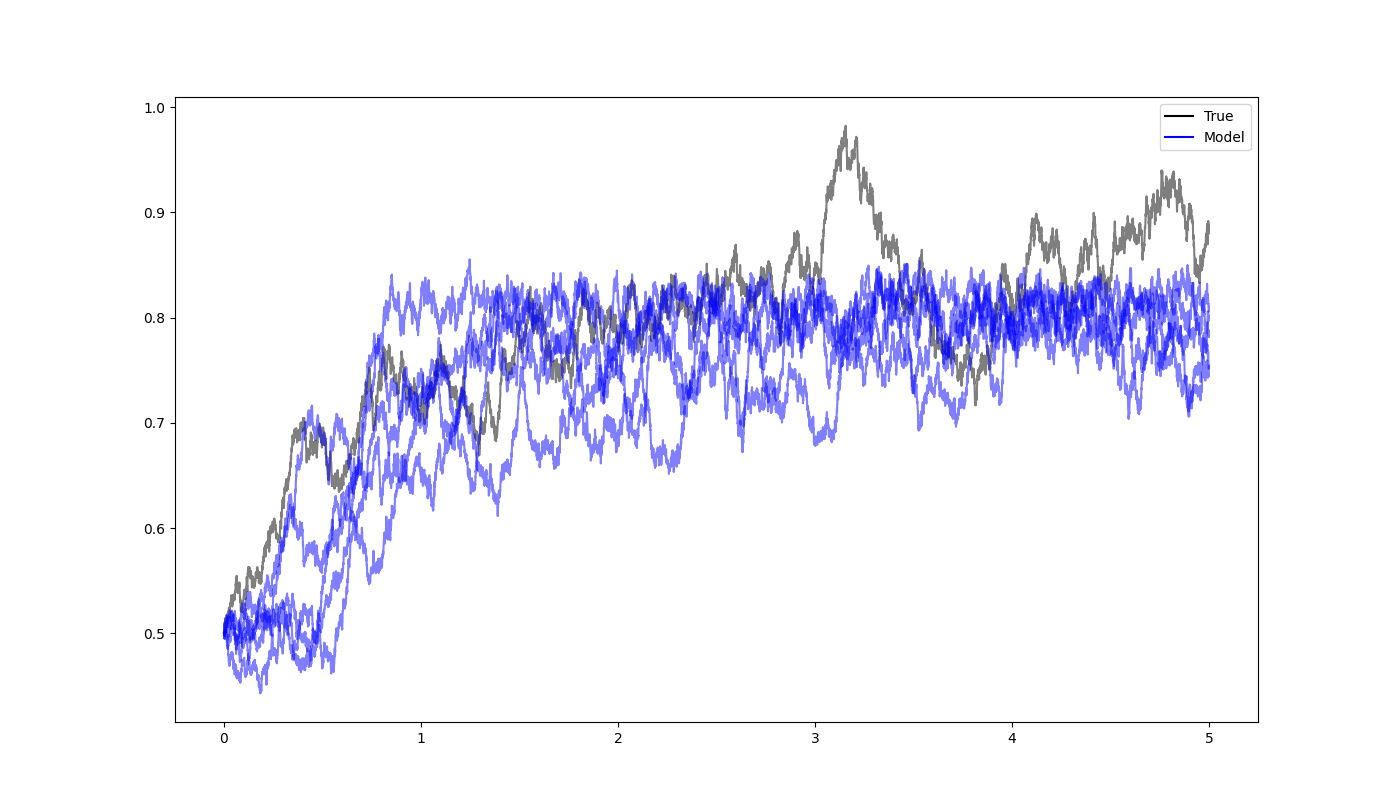
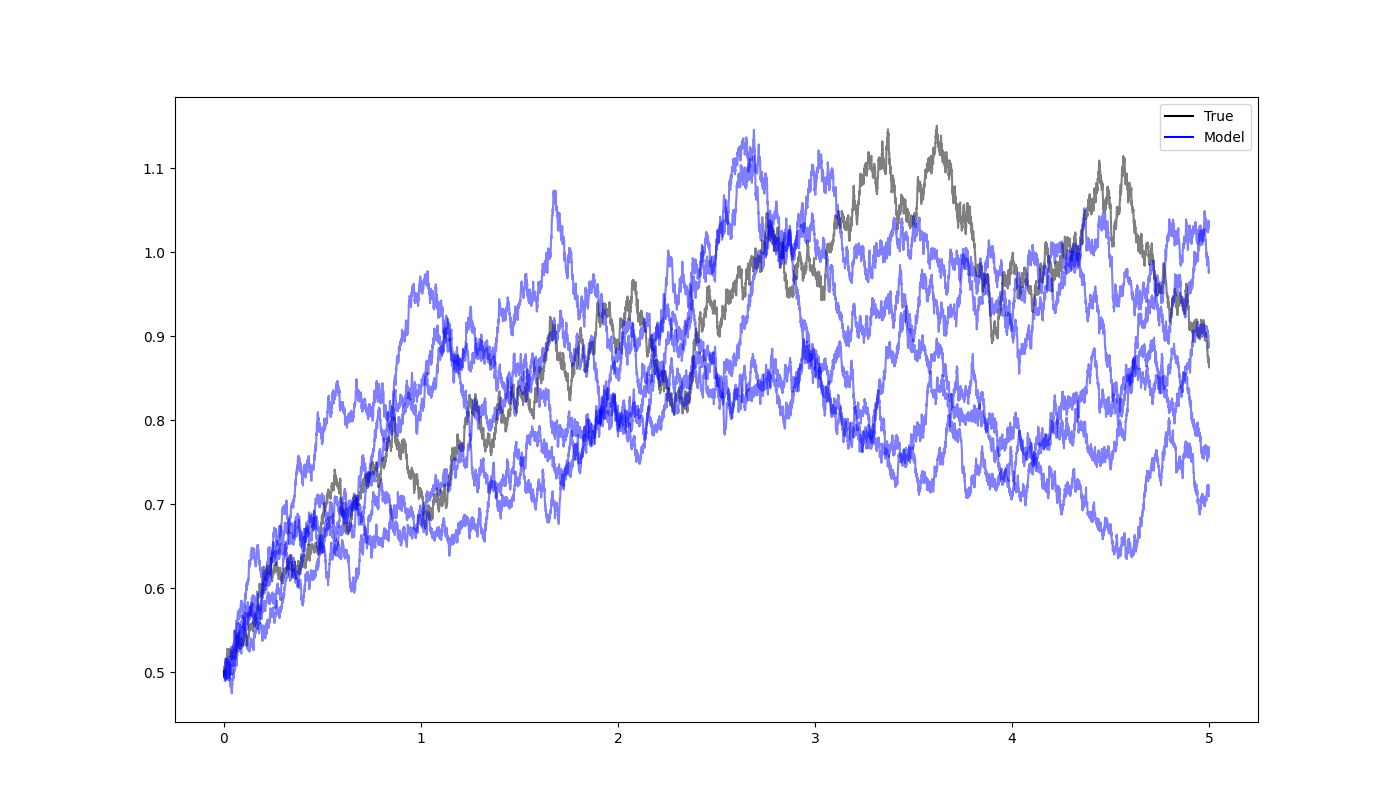
edit README.md

Changed region(s): [[0.1538, 0.1541, 0.892, 0.8631], [0.3691, 0.2466, 0.3999, 0.2774], [0.0923, 0.3699, 0.123, 0.4007]]

diff --git a/sdepy/neural_sdes.py b/sdepy/neural_sdes.py
@@ -123,9 +123,9 @@ if __name__ == "__main__":
     npaths_fit = 5  # number of sample paths to generated under fitted model
     seed = 17
     lr = 0.001
-    weight_decay = 0.  # Weight decay improves [32, 16] hidden dim fit by a lot!
+    weight_decay = 0.01  # Weight decay improves [32, 16] hidden dim fit by a lot!
     epochs = 10000
-    hidden_dim = [1, 1]
+    hidden_dim = [2, 2]
     num_layers = 2
     noise_dim = 1
     act = "Tanh"

diff --git a/README.md b/README.md
@@ -242,8 +242,8 @@ $$\mathcal{L}_ {NLL}(\theta):=-l(X;\theta) = \frac12\sum_ {j=1}^N \sum_ {i=0}^n 
 
 ### Example for one dimensional CIR process
 We simulate a true CIR process over $T=5$ for 10,000 time steps and train on the first 5,000 for 10,000 training epochs
-using 2-layer neural networks of 1 neuron each for the drift and covariance. This example code can easily be modified
-for two dimensional processes. 
+using 2-layer neural networks of 2 neurons each for the drift and covariance. This example code can easily be modified
+for two dimensional processes. Weight decay in the training was used, with a factor of $0.01$. 
 ```python
 # An example of our Neural SDE being fit to planar motions.
 import matplotlib.pyplot as plt
@@ -262,9 +262,9 @@ npaths = 1  # number of sample paths in data ensemble
 npaths_fit = 5  # number of sample paths to generated under fitted model
 seed = 17
 lr = 0.001
-weight_decay = 0.  # Weight decay improves [32, 16] hidden dim fit by a lot!
+weight_decay = 0.01  # Weight decay improves [32, 16] hidden dim fit by a lot!
 epochs = 10000
-hidden_dim = [1, 1]
+hidden_dim = [2, 2]
 num_layers = 2
 noise_dim = 1
 act = "Tanh"
